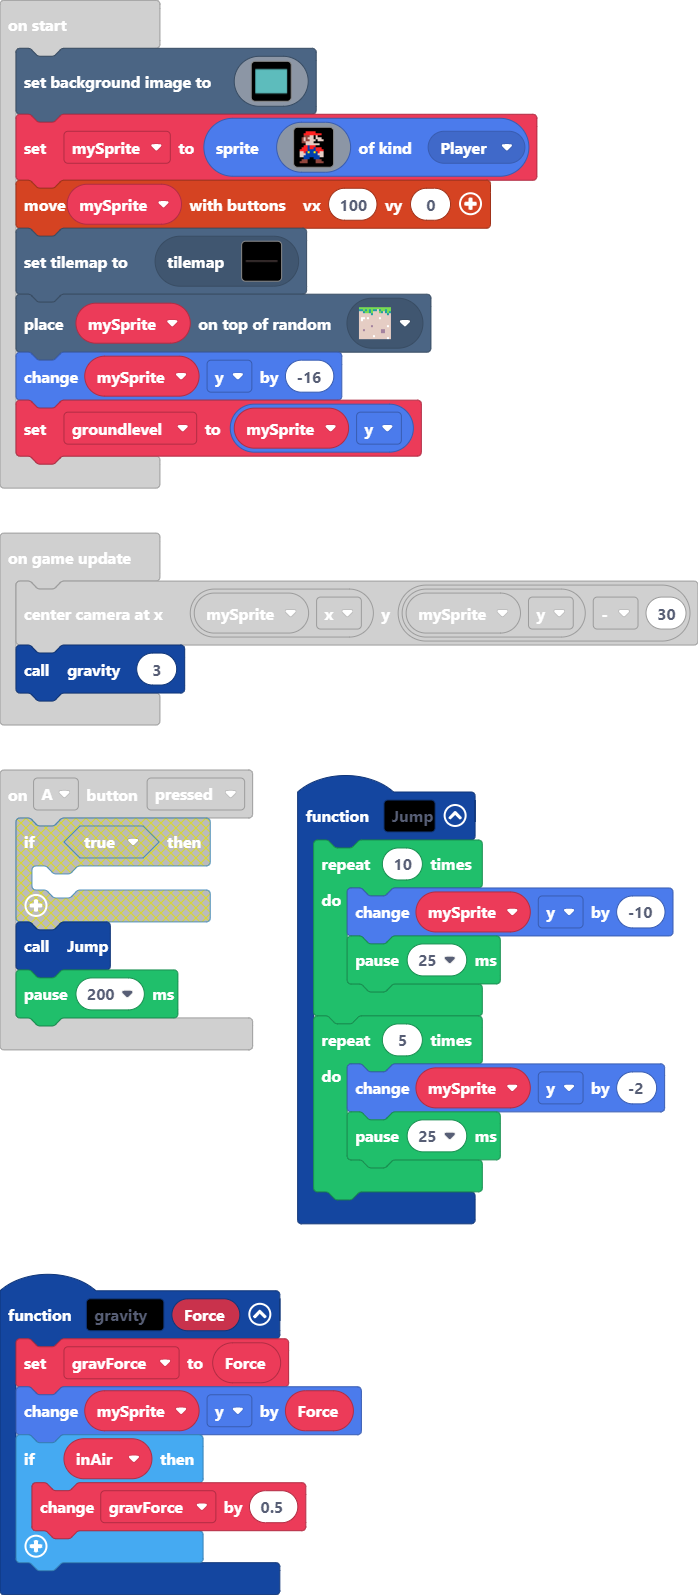
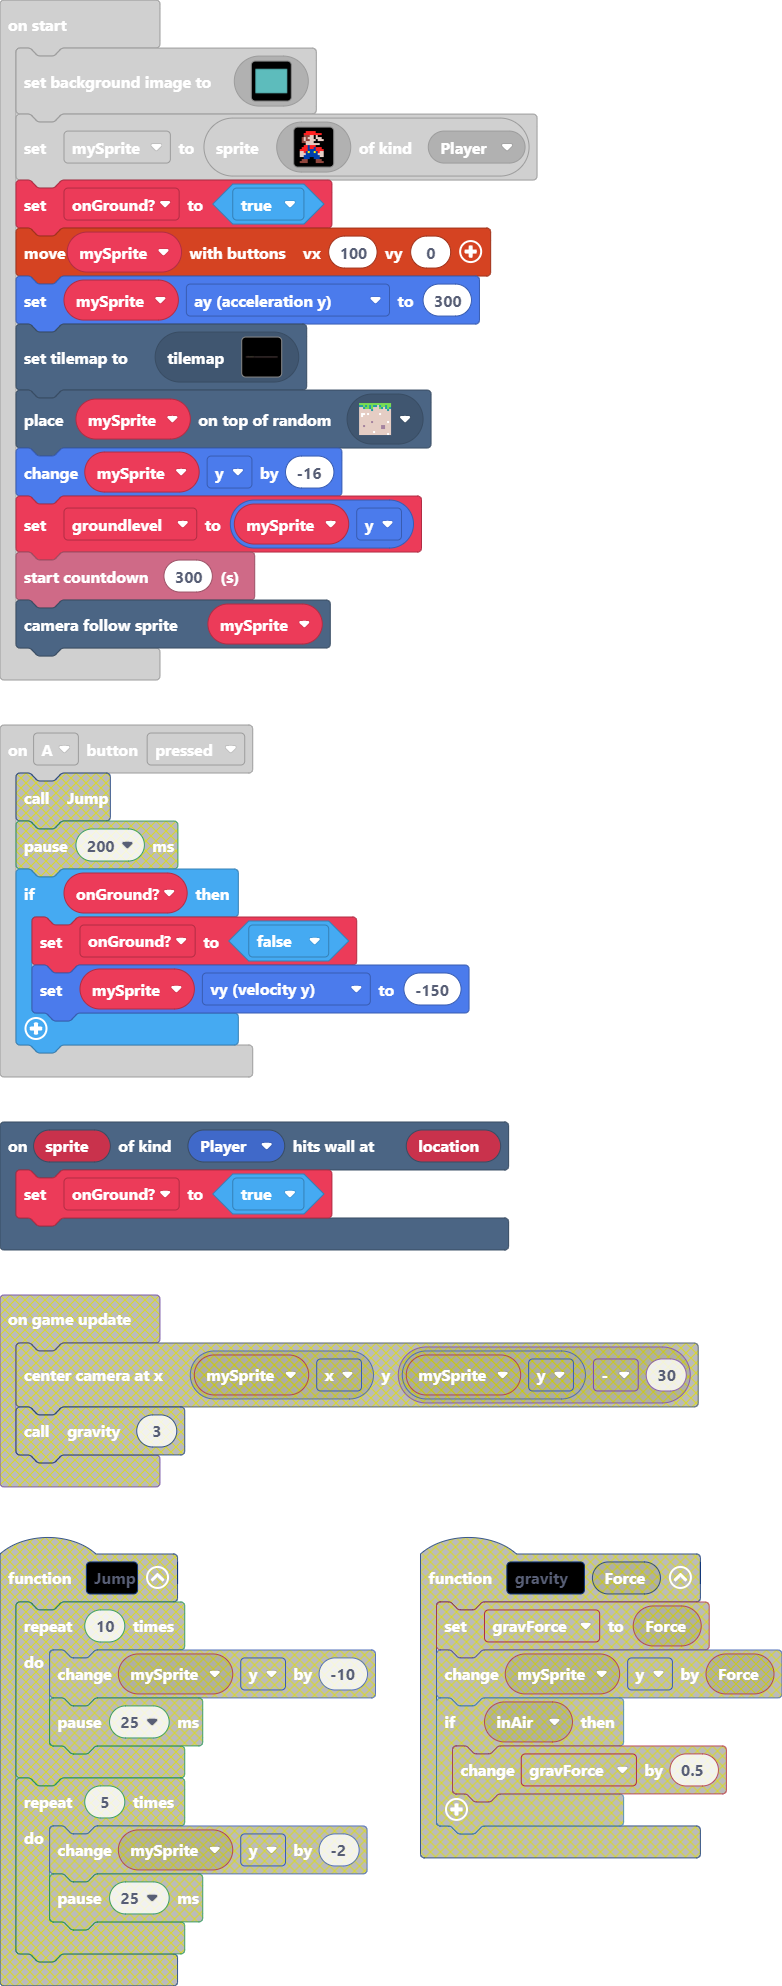
Update main.blocks, main.ts, tilemap.g.jres, tilemap.g.ts

diff --git a/tilemap.g.ts b/tilemap.g.ts
@@ -18,24 +18,24 @@ namespace myTiles {
     helpers._registerFactory("tilemap", function(name: string) {
         switch(helpers.stringTrim(name)) {
             case "level1":
[2 lines of base64/hex data omitted]
 ...............................................................................................................................................................................................................................................................
 ...............................................................................................................................................................................................................................................................
 ...............................................................................................................................................................................................................................................................
 ...............................................................................................................................................................................................................................................................
 ...............................................................................................................................................................................................................................................................
 ...............................................................................................................................................................................................................................................................
+..................2............................................................................................................................................................................................................................................
 ...............................................................................................................................................................................................................................................................
 ...............................................................................................................................................................................................................................................................
 ...............................................................................................................................................................................................................................................................
-...............................................................................................................................................................................................................................................................
-..........22...................................................................................................................................................................................................................................................
-..........22...................................................................................................................................................................................................................................................
-..........22...................................................................................................................................................................................................................................................
+............2...22222......................22..........22......................................................................................................................................................................................................
+..................................22.......22..........22......................................................................................................................................................................................................
+.........................22.......22.......22..........22......................................................................................................................................................................................................
+.........................22.......22.......22..........22......................................................................................................................................................................................................
 222222222222222222222222222222222222222222222222222222222222222222222222222222222222222222222222222222222222222222222222222222222222222222222222222222222222222222222222222222222222222222222222222222222222222222222222222222222222222222222222222222222222222
 222222222222222222222222222222222222222222222222222222222222222222222222222222222222222222222222222222222222222222222222222222222222222222222222222222222222222222222222222222222222222222222222222222222222222222222222222222222222222222222222222222222222222
-222222222222222222222222222222222222222222222222222222222222222222222222222222222222222222222222222222222222222222222222222222222222222222222222222222222222222222222222222222222222222222222222222222222222222222222222222222222222222222222222222222222222222
-`, [myTiles.transparency16,sprites.castle.tilePath2,sprites.castle.tilePath5,myTiles.tile1,myTiles.tile2,myTiles.tile3,myTiles.tile4,myTiles.tile5,myTiles.tile6], TileScale.Sixteen);
+`, [myTiles.transparency16,sprites.castle.tilePath2,sprites.castle.tilePath5,myTiles.tile1,myTiles.tile2,myTiles.tile3,myTiles.tile4,myTiles.tile5,tiles.util.object0,tiles.util.object4,sprites.builtin.brick,tiles.util.object5,tiles.util.arrow5,tiles.util.object2,sprites.castle.tilePath1,sprites.castle.tilePath3,sprites.castle.tilePath6,sprites.castle.tilePath4], TileScale.Sixteen);
         }
         return null;
     })

diff --git a/main.ts b/main.ts
@@ -1,26 +1,13 @@
-function gravity (Force: number) {
-    let inAir = 0
-    gravForce = Force
-    mySprite.y += Force
-    if (inAir) {
-        gravForce += 0.5
-    }
-}
-controller.A.onEvent(ControllerButtonEvent.Pressed, function () {
-    Jump()
-    pause(200)
+scene.onHitWall(SpriteKind.Player, function (sprite, location) {
+    onGround = true
 })
-function Jump () {
-    for (let index = 0; index < 10; index++) {
-        mySprite.y += -10
-        pause(25)
+controller.A.onEvent(ControllerButtonEvent.Pressed, function () {
+    if (onGround) {
+        onGround = false
+        mySprite.vy = -150
     }
-    for (let index = 0; index < 5; index++) {
-        mySprite.y += -2
-        pause(25)
-    }
-}
-let gravForce = 0
+})
+let onGround = false
 let mySprite: Sprite = null
 scene.setBackgroundImage(img`
     9999999999999999999999999999999999999999999999999999999999999999999999999999999999999999999999999999999999999999999999999999999999999999999999999999999999999999
@@ -162,12 +149,12 @@ mySprite = sprites.create(img`
     . . e e e . . . . e e e . . . . 
     . e e e e . . . . e e e e . . . 
     `, SpriteKind.Player)
+onGround = true
 controller.moveSprite(mySprite, 100, 0)
+mySprite.ay = 300
 tiles.setCurrentTilemap(tilemap`level1`)
 tiles.placeOnRandomTile(mySprite, assets.tile`SpawnBlock`)
 mySprite.y += -16
 let groundlevel = mySprite.y
-game.onUpdate(function () {
-    scene.centerCameraAt(mySprite.x, mySprite.y - 30)
-    gravity(3)
-})
+info.startCountdown(300)
+scene.cameraFollowSprite(mySprite)
